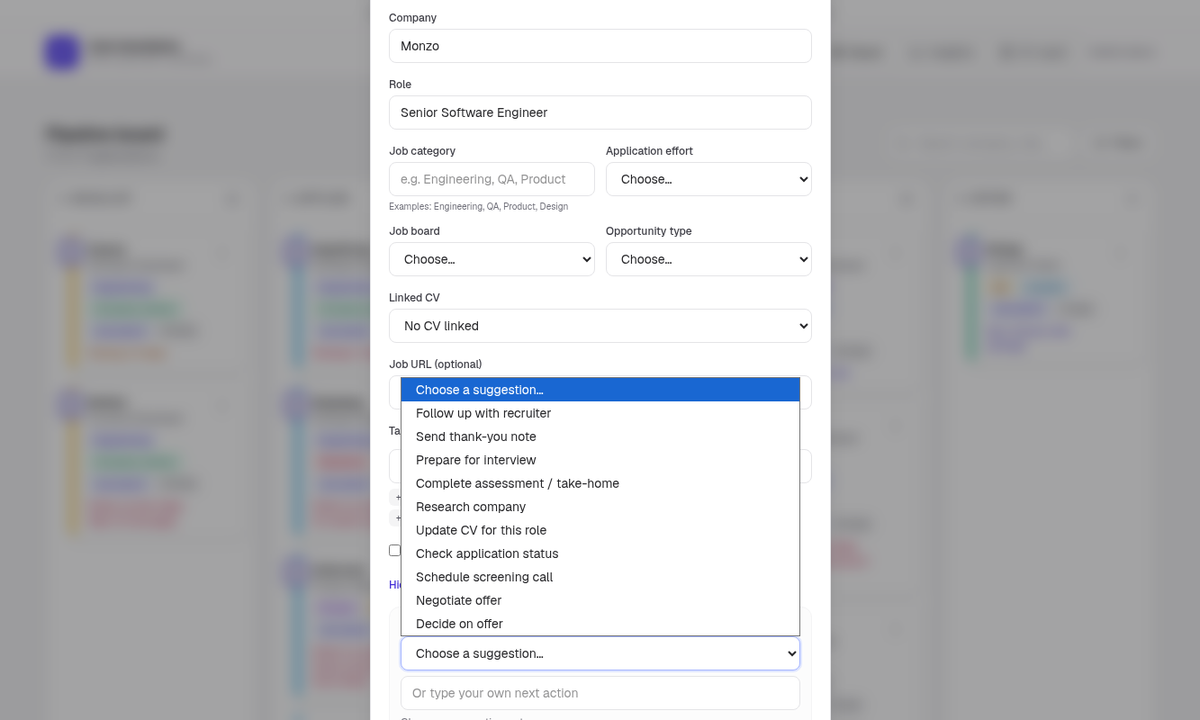
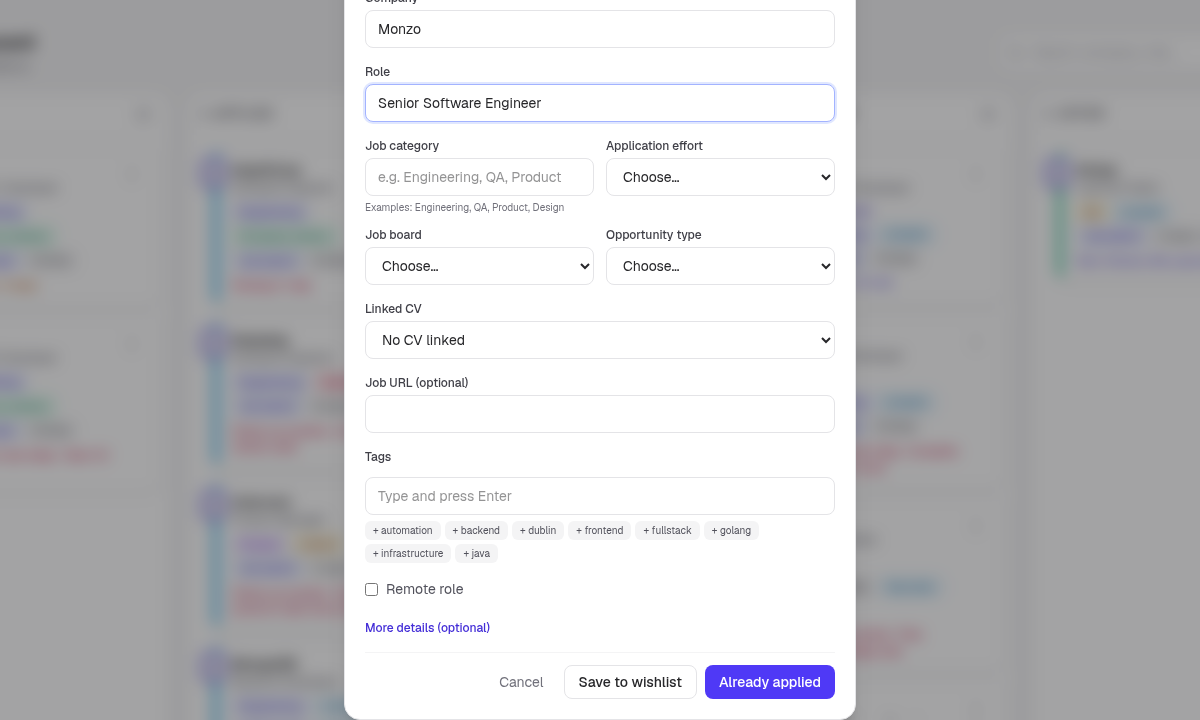
How-to v4: cut next-action image redundancy
Reshoot Step 3 (new application form, More details collapsed) and
Step 4 (detail with Linked CV / stage / timeline, next action closed).
Keep a single open-dropdown figure (03c). Banner PREVIEW v4.

diff --git a/howto/how-to-use-interviewalpha.html b/howto/how-to-use-interviewalpha.html
@@ -169,7 +169,7 @@
   </style>
 </head>
 <body>
-  <div class="preview-banner">PREVIEW v3 - uniform 1200×720 screenshots + next-action section. Not live until Tom approves.</div>
+  <div class="preview-banner">PREVIEW v4 - one next-action dropdown figure; Steps 3–4 show form + Linked CV. Not live until Tom approves.</div>
   <nav class="site-nav" aria-label="Preview navigation">
     <a class="brand" href="#">Interview<span>Alpha</span> Guides</a>
     <span class="meta">How-to · Demo walkthrough</span>
@@ -229,7 +229,7 @@
       <p>Keep the first pass light. You can enrich the card later.</p>
       <figure>
         <img src="images/03-add-or-move-application.png" alt="New application form with Company, Role, and save options" width="1200" height="800" />
-        <figcaption>Figure 3. New application form with More details open and Next action suggestions visible.</figcaption>
+        <figcaption>Figure 3. New application form: Company, Role, and save options (More details collapsed).</figcaption>
       </figure>
 
       <h3>Set a Next action (dropdown)</h3>
@@ -264,8 +264,8 @@
         <li>Confirm the link so Insights can attribute outcomes to that version.</li>
       </ol>
       <figure>
-        <img src="images/03b-application-detail.png" alt="Application detail for Canva with linked CV and next action" width="1200" height="800" />
-        <figcaption>Figure 4. Application detail: stage, Next steps &amp; timeline (Next action suggestions open), and linked CV version.</figcaption>
+        <img src="images/03b-application-detail.png" alt="Application detail with stage, linked CV, and timeline summary" width="1200" height="800" />
+        <figcaption>Figure 4. Application detail: stage, Linked CV, and timeline summary (next action closed / filled).</figcaption>
       </figure>
 
       <h2><span class="step-num">Step 5</span><br />Add a CV version in the vault</h2>
